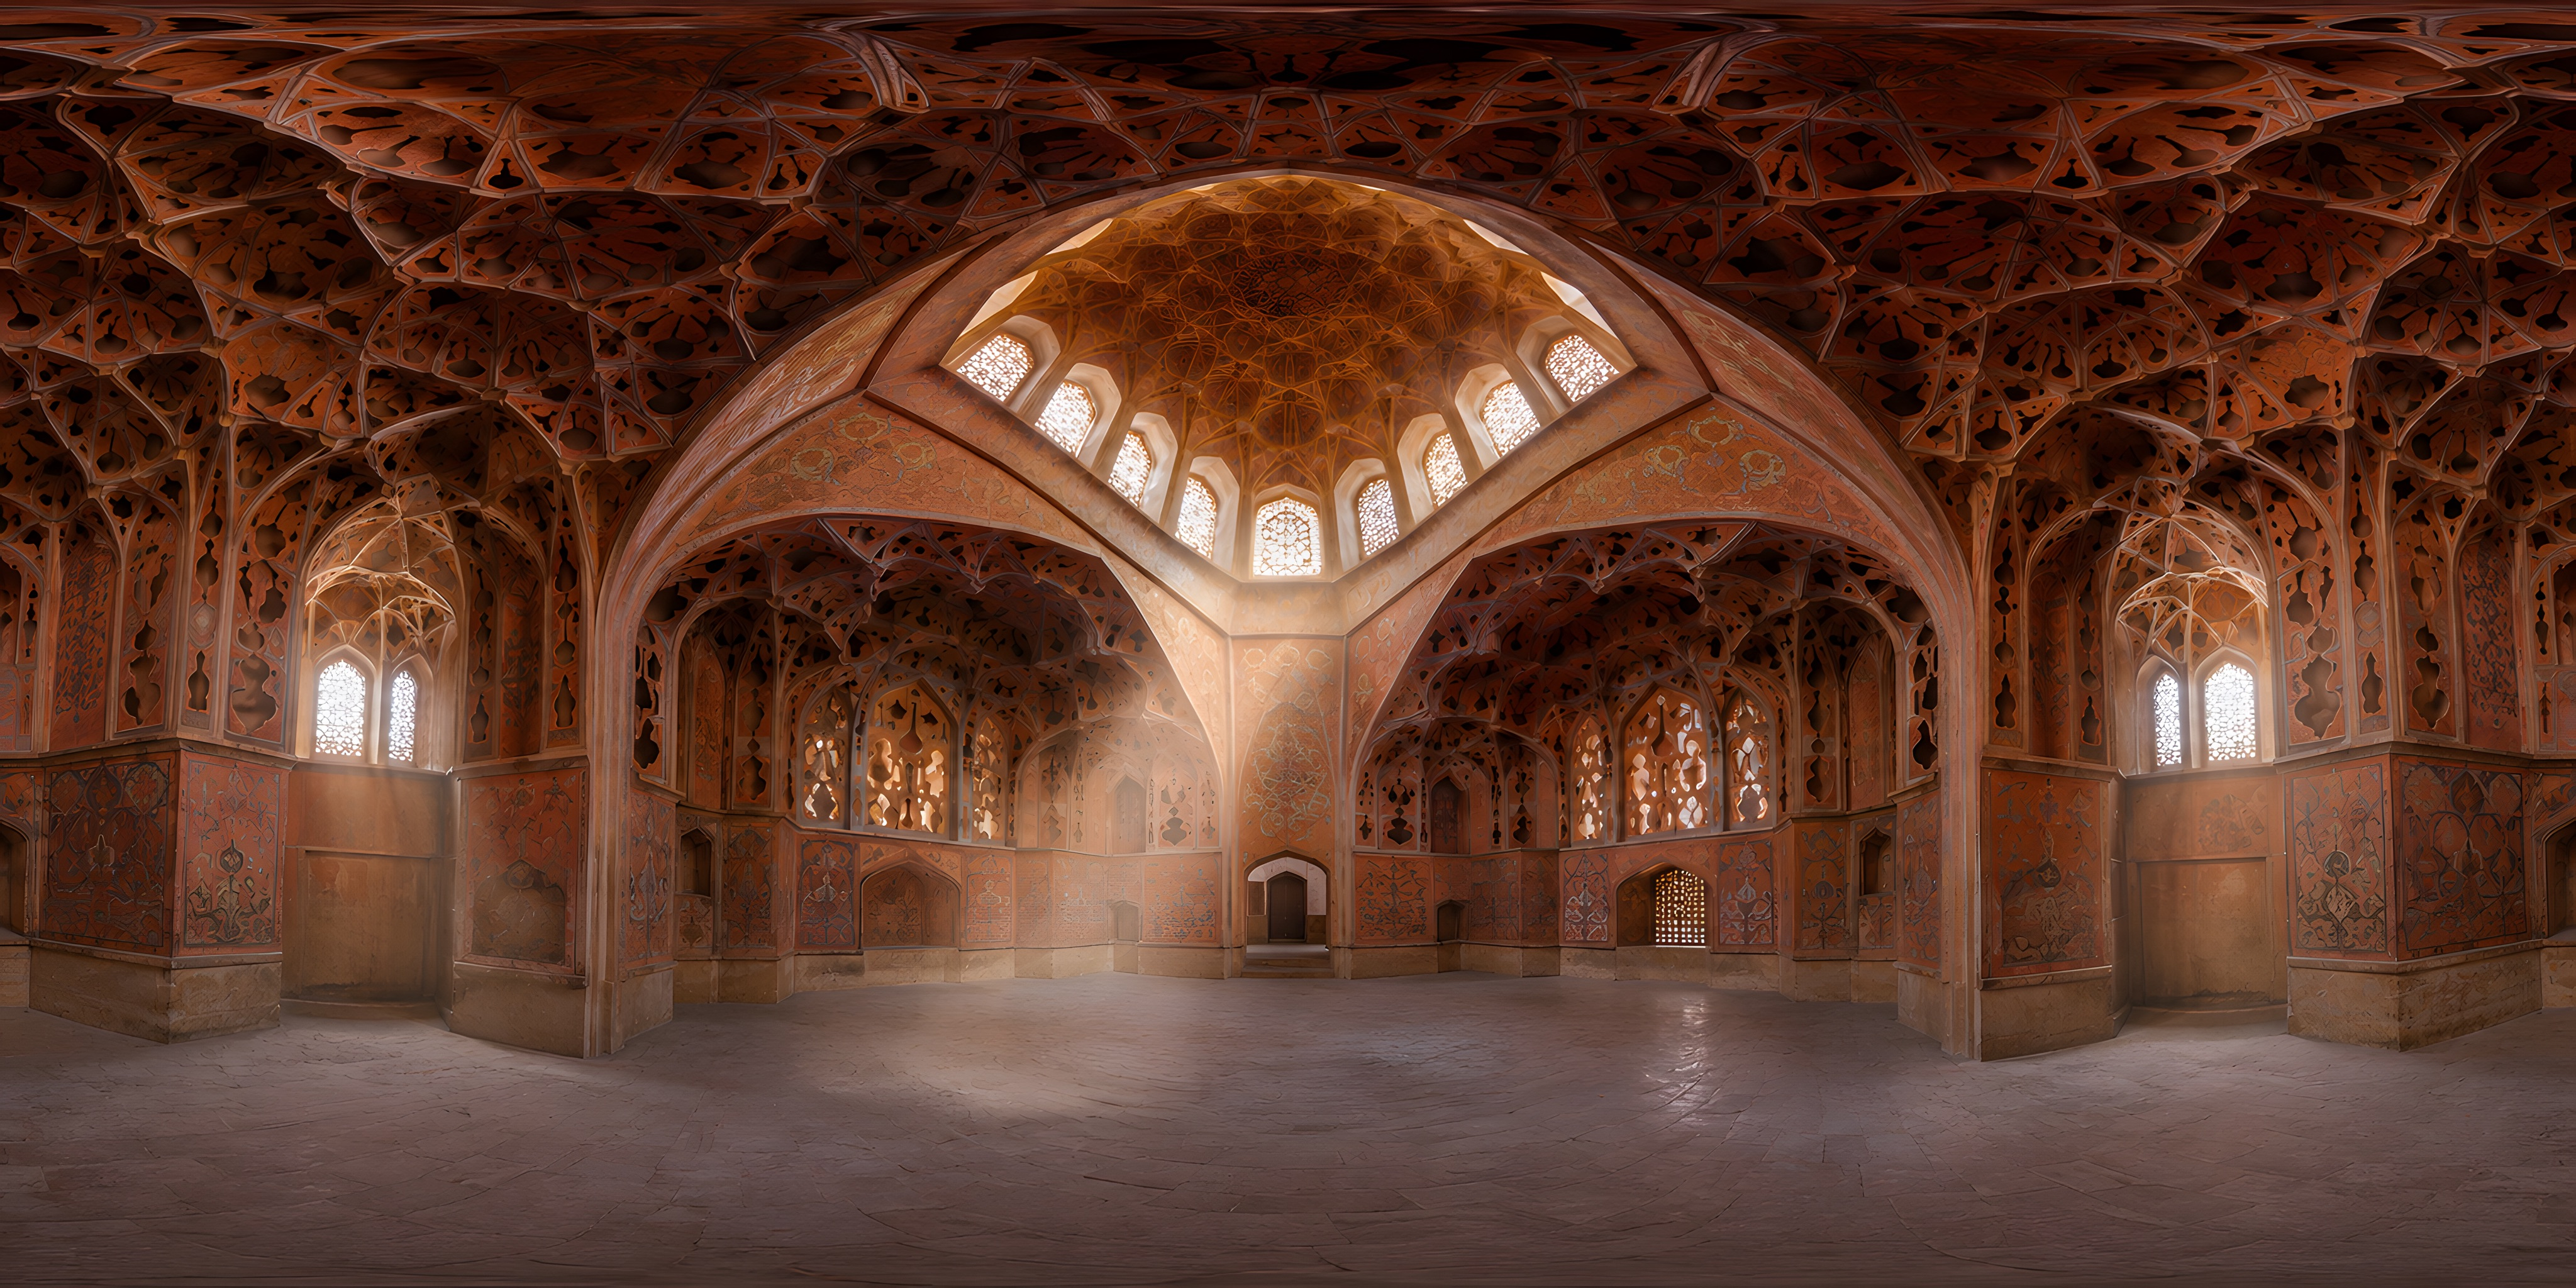
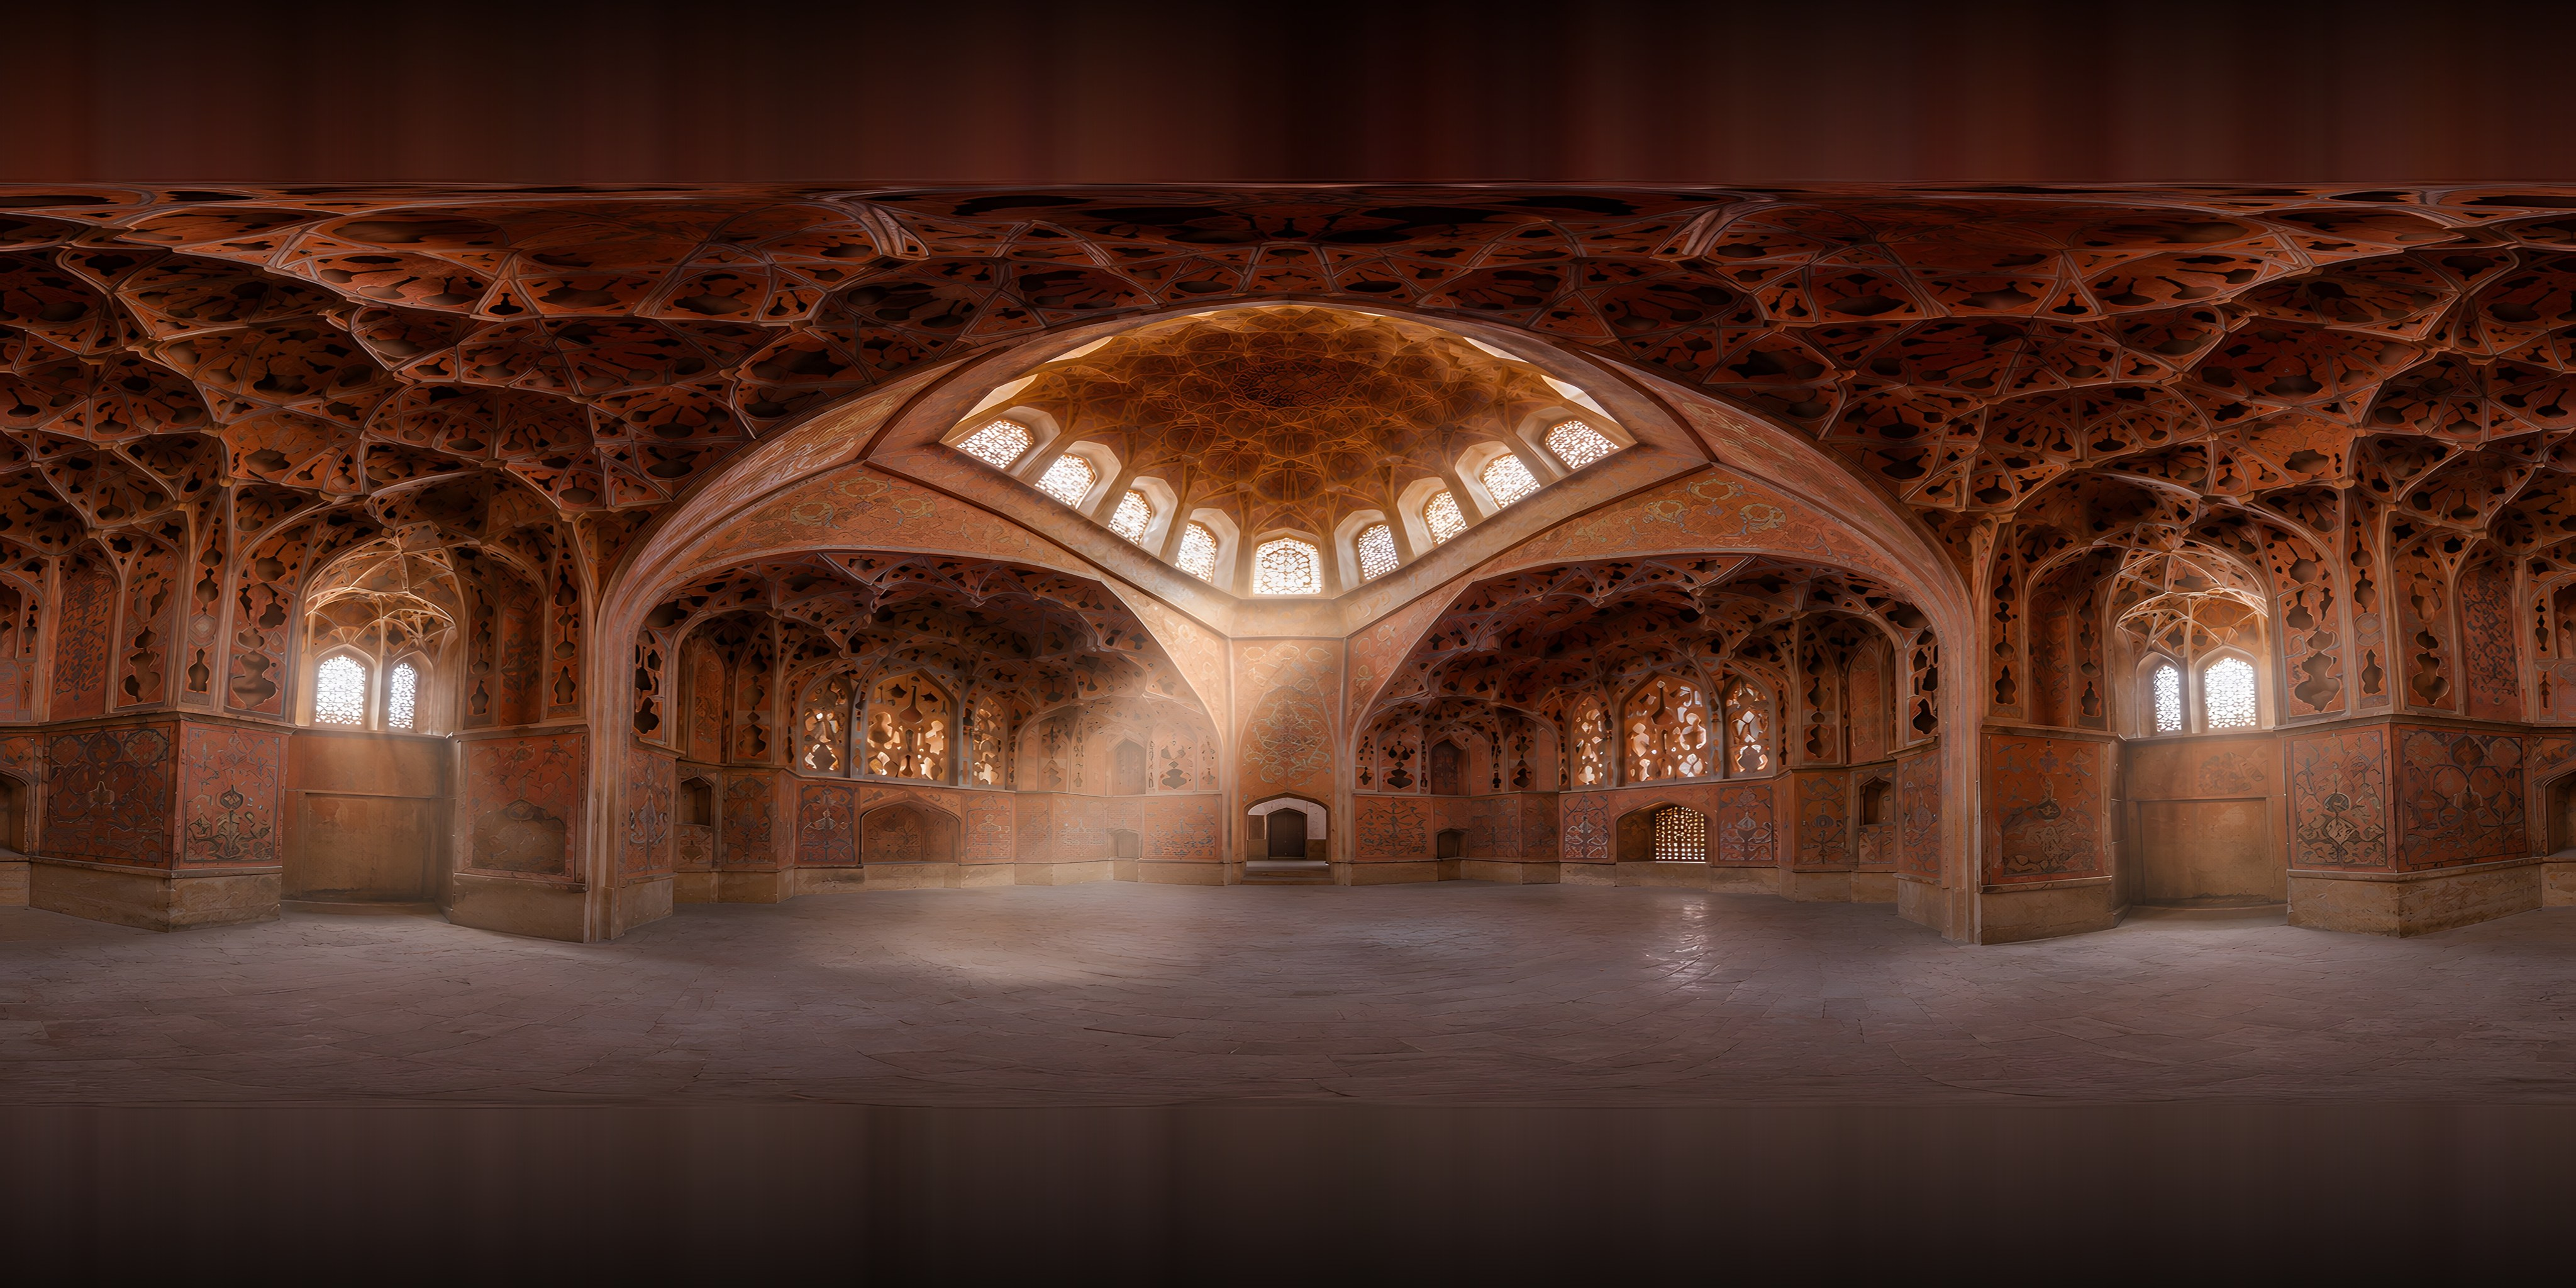
修复 4 张全景图畸变：上下加暗色渐变填充至真 180° vfov
根因：4 张全景图（pano-shrine/music/imam/lotfollah）虽然是 4096×2048 标准
2:1 等距柱状投影画幅，但实际有效内容只覆盖约 130° 垂直视场角，剩下的 50°
被强制贴成 180° → 穹顶被纵向压扁，畸变明显（粉红清真寺图是真正的 180°，所以正常）。

修复（tools/fix_pano_vfov.py）：
- 把内容缩到 4096×1479（130/180 比例），居中放到 4096×2048 黑底画布
- 上下各 284px 填充区，取图像顶/底行 8px 的平均色，渐变到深色（0.3→1.0 alpha）
- GaussianBlur(2) 柔化拼接缝
- 原图备份在 assets/_pano_backup/（已加 .gitignore，部署时点开头跳过）

效果：穹顶恢复圆形，建筑装饰几何线条正常，仰头看到天花板时是图像顶色到暗
色的自然渐变，不会突兀。Pitch 限位 ±50° 实际上也只能看到很少的填充区。

diff --git a/tools/fix_pano_vfov.py b/tools/fix_pano_vfov.py
@@ -1,0 +1,101 @@
+#!/usr/bin/env python3
+"""
+修复部分全景图的 vfov 不足导致的畸变问题
+
+输入：等距柱状投影格式但实际只覆盖部分垂直视场角的全景图（4096×2048）
+输出：把图像缩到对应的真实 vfov 高度，居中放到 4096×2048 画布，
+      上下填充区域用图像顶/底行的平均色，渐变到深色（避免死黑突兀）
+
+数学：
+  - 标准 equirectangular vfov = 180°（画面高 = 2048px）
+  - 实测这 4 张图实际有效 vfov ≈ 130°
+  - 缩后图像高度 = 2048 * 130/180 ≈ 1480px
+  - 上下各填充 (2048-1480)/2 = 284px
+"""
+from PIL import Image, ImageFilter
+import os, sys
+
+# 实际 vfov 估计（度）
+EFFECTIVE_VFOV = 130.0
+FULL_VFOV = 180.0
+TARGET_W = 4096
+TARGET_H = 2048
+
+INPUT_DIR  = '/Users/yanli/Downloads/sand/assets/_pano_backup'
+OUTPUT_DIR = '/Users/yanli/Downloads/sand/assets'
+FILES = ['pano-shrine.jpg', 'pano-music.jpg', 'pano-imam.jpg', 'pano-lotfollah.jpg']
+
+def fix_pano(in_path, out_path):
+    img = Image.open(in_path).convert('RGB')
+    w, h = img.size
+    print(f'  原图: {w}x{h}')
+
+    # 1) 计算缩放后的图像高度
+    scaled_h = int(TARGET_H * EFFECTIVE_VFOV / FULL_VFOV)
+    # 缩放图像高度到 scaled_h，宽度按比例 → 实际宽度
+    scaled_w = int(w * scaled_h / h)
+    img_scaled = img.resize((scaled_w, scaled_h), Image.LANCZOS)
+
+    # 2) 如果宽度 != TARGET_W，再做 horizontal scale 到 4096（保持等距柱状条件）
+    if scaled_w != TARGET_W:
+        img_scaled = img_scaled.resize((TARGET_W, scaled_h), Image.LANCZOS)
+    print(f'  缩到: {TARGET_W}x{scaled_h}')
+
+    # 3) 创建 4096x2048 画布，居中放置
+    pad_top = (TARGET_H - scaled_h) // 2
+    pad_bottom = TARGET_H - scaled_h - pad_top
+
+    # 4) 取顶/底行的平均色（按列采样，得到一行 4096 像素的颜色）
+    top_row = img_scaled.crop((0, 0, TARGET_W, 8))         # 顶部 8 行
+    bot_row = img_scaled.crop((0, scaled_h-8, TARGET_W, scaled_h))  # 底部 8 行
+
+    # 把这 8 行平均成 1 行
+    top_strip = top_row.resize((TARGET_W, 1), Image.LANCZOS)
+    bot_strip = bot_row.resize((TARGET_W, 1), Image.LANCZOS)
+
+    # 5) 顶部填充：从图像顶色 → 暗色（70% 黑）渐变
+    canvas = Image.new('RGB', (TARGET_W, TARGET_H), (0, 0, 0))
+
+    # 顶部填充区
+    if pad_top > 0:
+        top_fill = Image.new('RGB', (TARGET_W, pad_top), (0, 0, 0))
+        # 渐变：顶部行平均色 → 远离图像处变暗
+        for y in range(pad_top):
+            # alpha 越远离图像（y 越小）越暗，用 0.3 兜底，保留 30% 颜色
+            t = y / max(1, pad_top - 1)  # 0 在最顶，1 紧贴图像
+            alpha = 0.3 + 0.7 * t  # 顶端保留 30% 色，紧贴图像处 100%
+            row = top_strip.point(lambda v: int(v * alpha))
+            top_fill.paste(row, (0, y))
+        # 加一点模糊柔化
+        top_fill = top_fill.filter(ImageFilter.GaussianBlur(radius=2))
+        canvas.paste(top_fill, (0, 0))
+
+    # 底部填充区
+    if pad_bottom > 0:
+        bot_fill = Image.new('RGB', (TARGET_W, pad_bottom), (0, 0, 0))
+        for y in range(pad_bottom):
+            t = 1 - y / max(1, pad_bottom - 1)  # 0 在最底，1 紧贴图像
+            alpha = 0.3 + 0.7 * t
+            row = bot_strip.point(lambda v: int(v * alpha))
+            bot_fill.paste(row, (0, y))
+        bot_fill = bot_fill.filter(ImageFilter.GaussianBlur(radius=2))
+        canvas.paste(bot_fill, (0, pad_top + scaled_h))
+
+    # 把缩放后的图像粘到中间
+    canvas.paste(img_scaled, (0, pad_top))
+
+    # 保存
+    canvas.save(out_path, 'JPEG', quality=88, optimize=True)
+    out_size = os.path.getsize(out_path) / 1024 / 1024
+    print(f'  ✓ 输出: {out_path}  ({out_size:.2f} MB)')
+
+if __name__ == '__main__':
+    for fn in FILES:
+        in_path = os.path.join(INPUT_DIR, fn)
+        out_path = os.path.join(OUTPUT_DIR, fn)
+        if not os.path.exists(in_path):
+            print(f'✗ 找不到: {in_path}')
+            continue
+        print(f'\n处理: {fn}')
+        fix_pano(in_path, out_path)
+    print('\n全部完成')